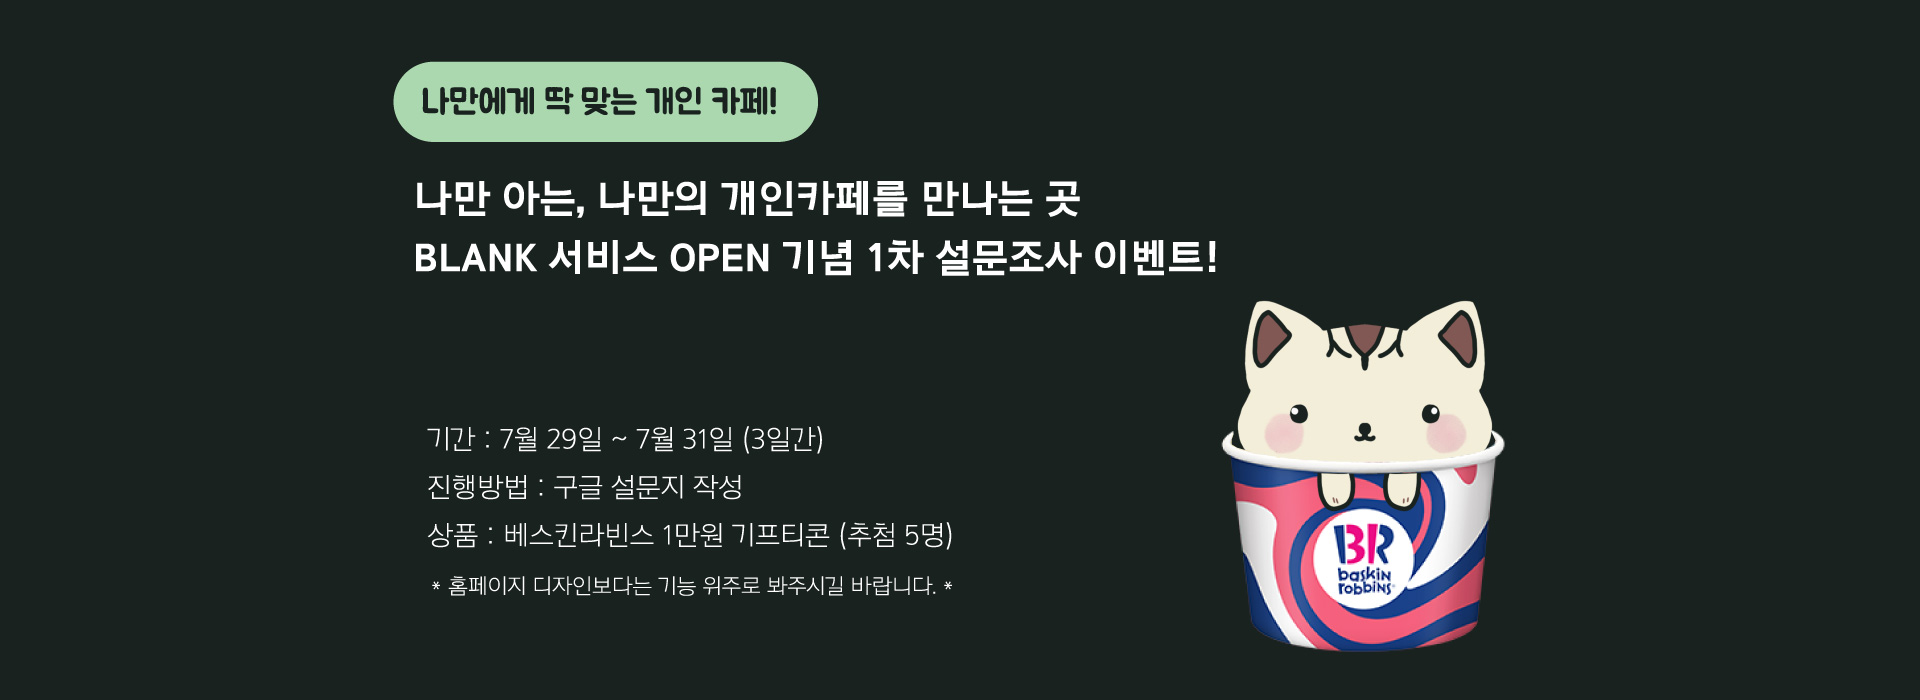
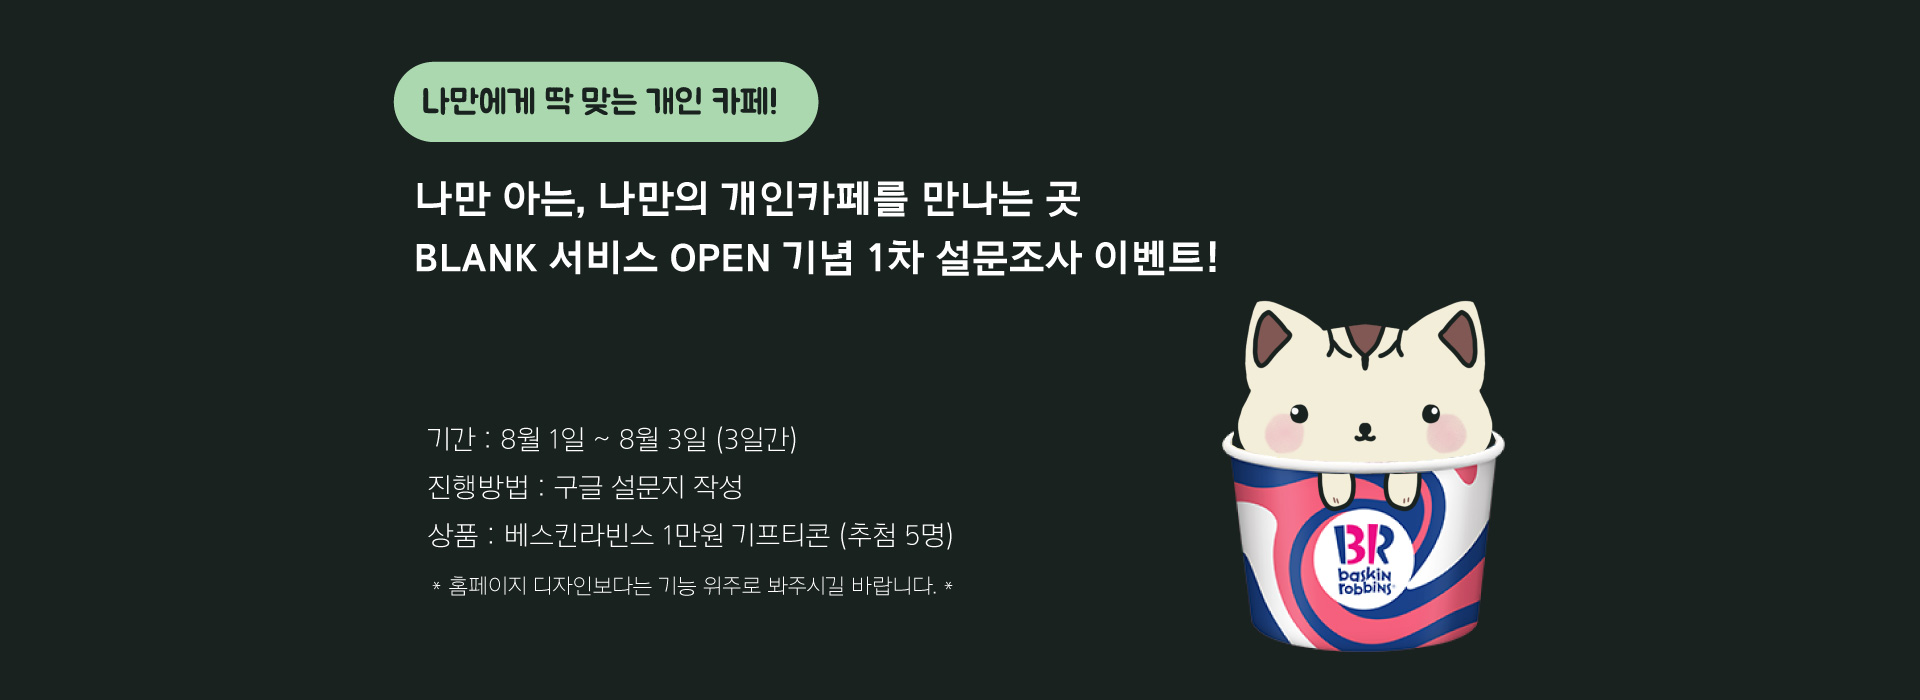
[chore] 설문조사 배너 사진 갈아끼우기 / 배너 사진 클릭시 설문조사로 이동
설문조사를 받기위한 사진을 갈아끼우고 쉽게 이동하기위해 배너에 링크를 달았습니다

diff --git a/src/components/Banner.js b/src/components/Banner.js
@@ -26,9 +26,9 @@ const Banner = () => {
             <div>
               <img src={BannerImg} alt='slider' />
             </div>
-            <div>
+            <a href='https://docs.google.com/forms/d/e/1FAIpQLSfgypBBpGJDVPth59Nm392Xt4Re5F13gBWgENpGwwVmlQM6CQ/viewform?usp=sf_link'>
               <img src={BannerImg2} alt='slider' />
-            </div>
+            </a>
         </StyledSlider> 
       );
     }
